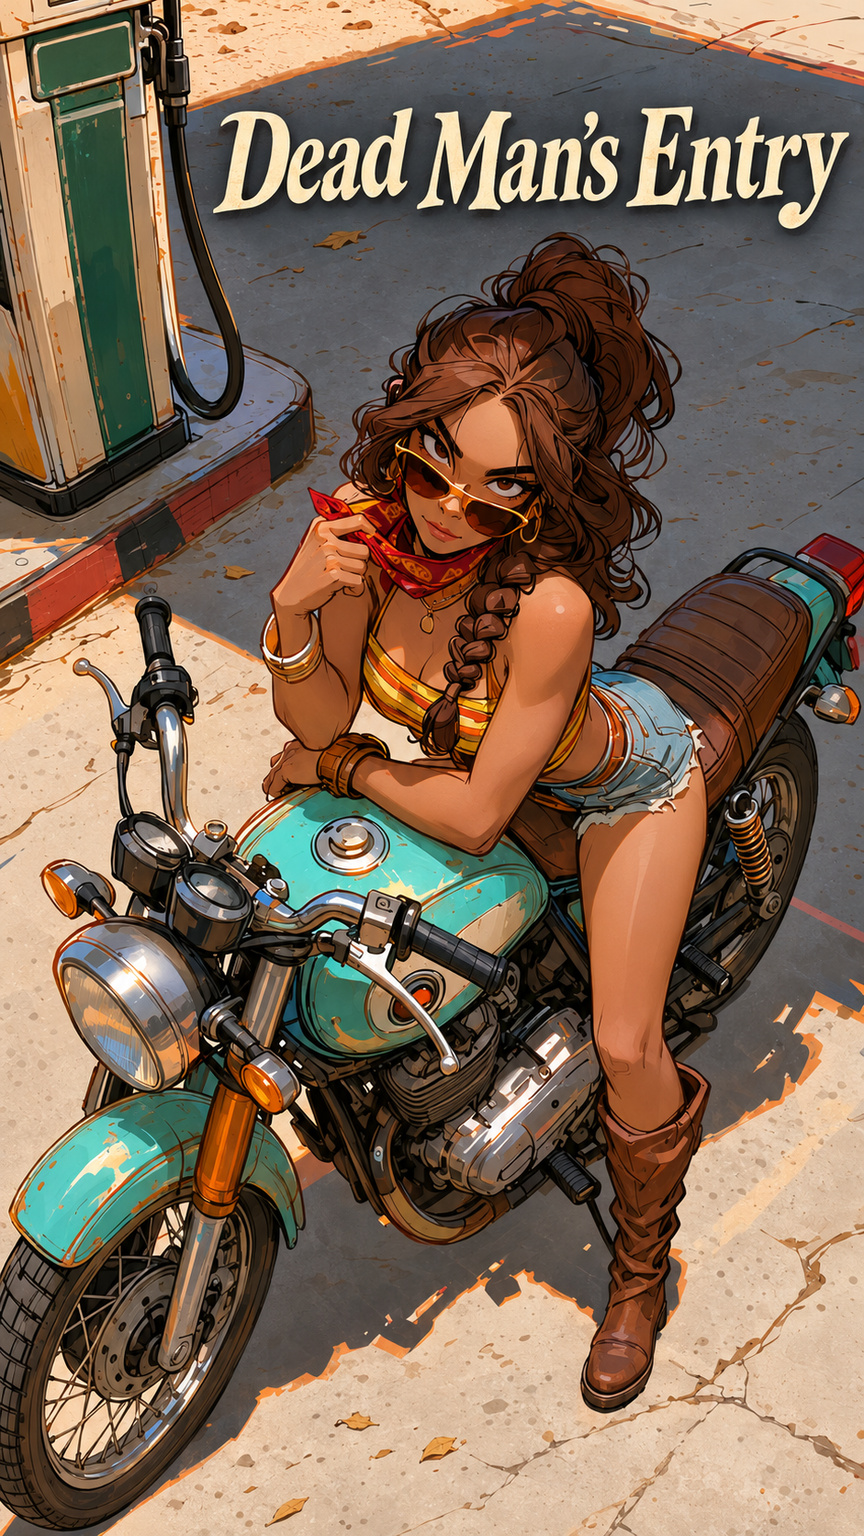
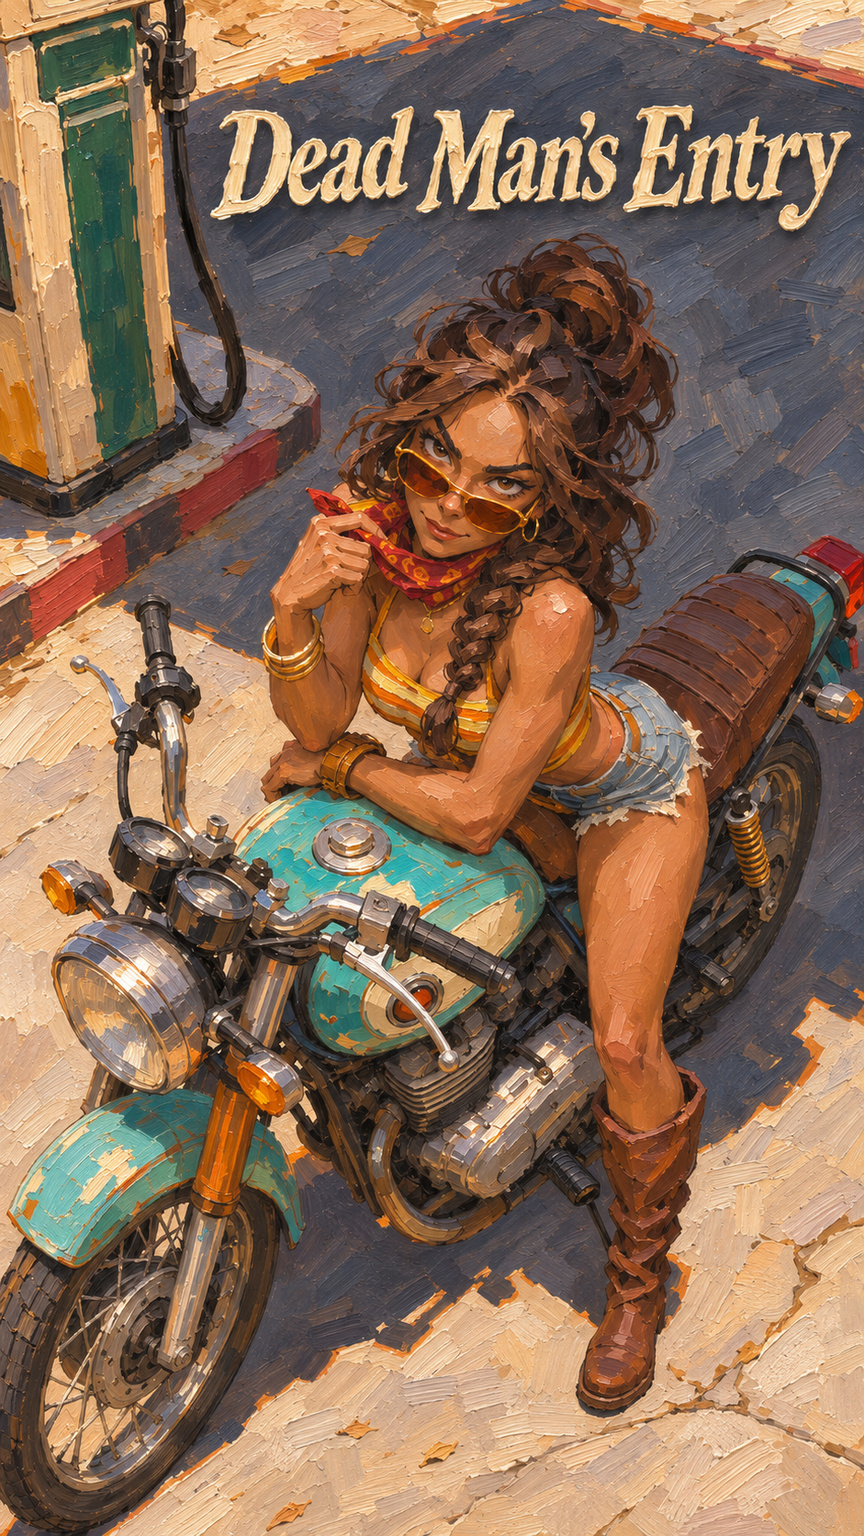
Keep the reference composition in the collection's painted style

diff --git a/stories/dead-mans-entry/notes.md b/stories/dead-mans-entry/notes.md
@@ -45,3 +45,5 @@
 **Handoff checks:** Five media unit tests pass. Pillow verifies all eleven accepted generated files: ten 1536×1024 WebPs and one 864×1536 JPEG. The locally built tracked-media manifest includes those eleven and excludes the supplied original; the full selected corpus builds successfully. Staged/working whitespace checks are clear, final prose is unchanged since its successful gate, and the package remains `canon: false`. Draft pull-request review follows.
 
 **Cover revision:** The user rejects the cover as “too far from my reference image”; their complete wording is appended to `prompt.md`. The warehouse scene and coarse oil rendering had displaced the source's distinctive composition and mood. The replacement uses the original as primary authority for face, high-angle view, astride/leaning pose, turquoise bike, brown saddle, green-and-cream pump, hard sunlight and confident appraisal. The accepted Dell sheet supplies secondary identity/wardrobe continuity. Interpreting the closer-reference request to include its clean inked/digital illustration overrides the collection's default oil finish for this cover. Saved 864×1536 JPEG inspected against the original: same curls/knot/braid, amber aviators, scarf/stripes/cutoffs/boots, coherent limbs and motorcycle, exact title once natively rendered. The previous cover remains in Git history and worktree tmp; exact prompt/inputs and candidate are under `tmp/dead-mans-entry/art/cover-reference-retry/`. Finished prose and replacement cover are reassessed together: **Teen** remains appropriate. This is a localized art revision; the prose and character/location references retain their finished versions.
+
+**Painted-style clarification:** The user directs, verbatim, “make sure to keep the painted artist sytle of collection.” The earlier inference that closer reference fidelity authorized a change to clean inked rendering is withdrawn. Both requests apply together: retain the original's character, high-angle pose, turquoise motorcycle, forecourt, sunlight and palette, with the collection's oil-painted medium. A built-in ImageGen style edit uses the current cover as composition target, the original for casting/scene, Dell's accepted sheet for painted face/form handling, and the inspected `before-lunch` hotel-district painting for broad directional strokes/value masses only. Saved-pixel review confirms recognizable identity, coherent pose/bike, connected slate-grey shadow, opaque strokes and selective impasto across the figure, machine, pump and ground; title remains once and legible. Final JPEG is 864×1536. Previous rendering, candidate and exact prompt/input roles are under `tmp/dead-mans-entry/art/cover-painted-retry/`; Git retains earlier covers. Reassessing this cover with the finished prose retains **Teen**. The collection medium and reference resemblance are complementary requirements, not alternate directions.

diff --git a/stories/dead-mans-entry/ratings.md b/stories/dead-mans-entry/ratings.md
@@ -2,4 +2,4 @@
 
 - **Rating:** Teen
 - **Content notes:** Life-threatening illegal motorcycle racing; deliberate vehicle contact and a painful, non-graphic knee injury; recalled racing death and accidental parental death in a fire; bereavement, theft, imprisonment, and emotional manipulation.
-- **Reason:** The finished prose sustains mortal peril and the bodily cost of a collision at an intensity suited to Teen. Reassessed with the replacement cover, which depicts the adult rider on her parked motorcycle at a sunlit filling station; the combined classification remains Teen.
+- **Reason:** The finished prose sustains mortal peril and the bodily cost of a collision at an intensity suited to Teen. Reassessed with the oil-painted replacement cover, which depicts the adult rider on her parked motorcycle at a sunlit filling station; the combined classification remains Teen.

diff --git a/stories/dead-mans-entry/prompt.md b/stories/dead-mans-entry/prompt.md
@@ -20,3 +20,7 @@ The user specifies an outlaw motorcycle race, danger, crime, a dead father, and 
 ## Later user direction — cover revision
 
 the cover its too far from my reference image try agian.
+
+## Later user direction — collection painting style
+
+make sure to keep the painted artist sytle of collection.
